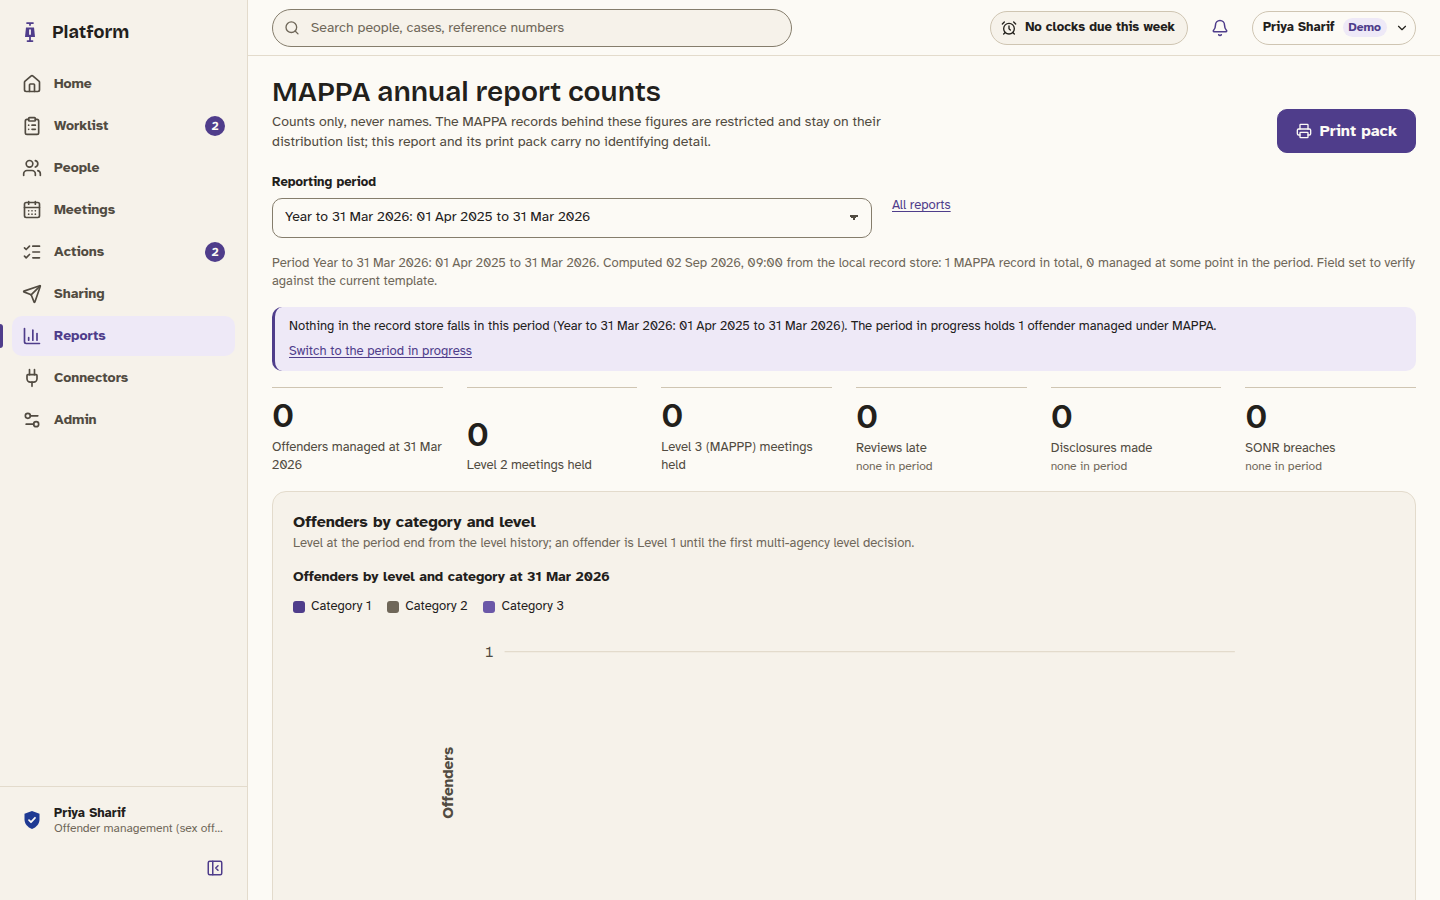
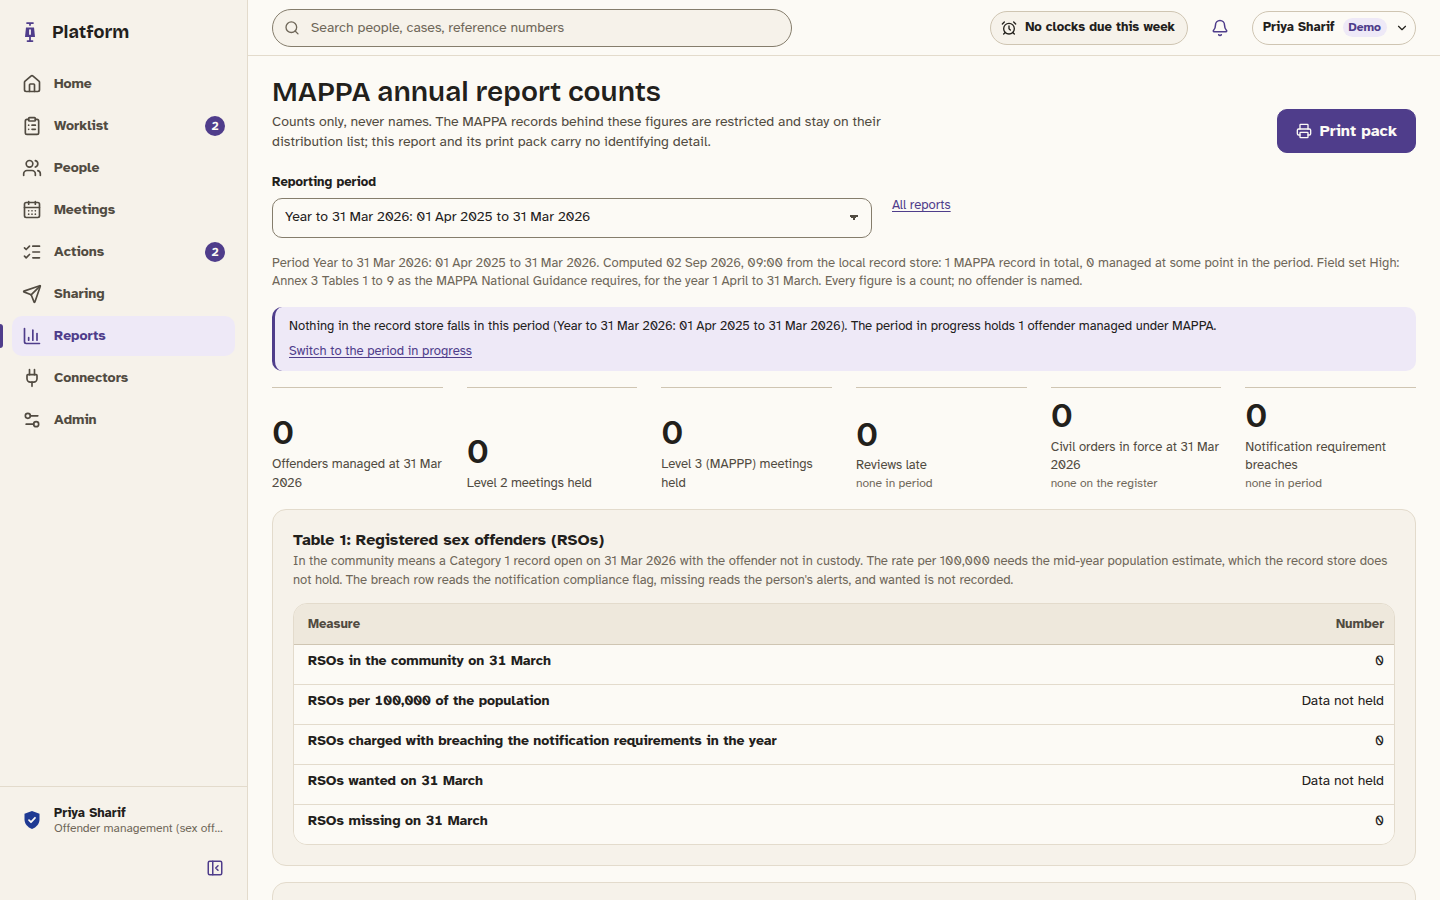
chore: regenerate the data model, screenshots and index after round 3
DATA-MODEL picks up the civil order register, the named case-party form
and the deferrable clock fields. The Playwright suite recaptured the
screens the round changed and added the Annex 3 report capture; the
handover index now lists 138 screenshots. The MAPPA report unit test
expects the High field set line.

Claude-Session: https://claude.ai/code/session_01FKeMmPt1Xxg5XsbCUvgkkp

diff --git a/apps/web/features/reports/reports.test.ts b/apps/web/features/reports/reports.test.ts
@@ -67,7 +67,7 @@ describe('report figures are computed from the seed, never typed in', () => {
     expect(y2027.map['l2']).toBe('1');
     expect(y2027.map['late']).toBe('0');
     expect(y2027.map['orders']).toBe('1');
-    expect(y2027.model.meta.join(' ')).toContain('Annex 3 tables 1 to 9 (MAPPA National Guidance)');
+    expect(y2027.model.meta.join(' ')).toContain('Field set High: Annex 3 Tables 1 to 9');
     expect(y2027.model.meta.join(' ')).not.toContain('Field set to verify');
 
     // Nine sections, one per table, in the annex order, and the only chart sits on Table 3.

diff --git a/docs/DATA-MODEL.md b/docs/DATA-MODEL.md
@@ -187,7 +187,7 @@ Variant 1
 | `riskAssessmentIds` | array of string | yes |
 | `evidenceRefs` | array of object { kind, ref, label } | no |
 | `flags` | object | yes |
-| `parties` | array of object { personId, userId, party, label, since, source, reason } | yes |
+| `parties` | array of object { personId, userId, name, party, label, since, source, reason } | yes |
 | `type` | literal "asp" | yes |
 | `detail` | object { concern, threePointTest, screening, inquiry, investigation, ordersConsidered, planId, closure, lsi } | yes |
 
@@ -216,7 +216,7 @@ Variant 2
 | `riskAssessmentIds` | array of string | yes |
 | `evidenceRefs` | array of object { kind, ref, label } | no |
 | `flags` | object | yes |
-| `parties` | array of object { personId, userId, party, label, since, source, reason } | yes |
+| `parties` | array of object { personId, userId, name, party, label, since, source, reason } | yes |
 | `type` | literal "cp" | yes |
 | `detail` | object { concern, proceduresInitiatedAt, ird, investigation, cppm, register, coreGroup, childsPlanId, preBirth } | yes |
 
@@ -245,7 +245,7 @@ Variant 3
 | `riskAssessmentIds` | array of string | yes |
 | `evidenceRefs` | array of object { kind, ref, label } | no |
 | `flags` | object | yes |
-| `parties` | array of object { personId, userId, party, label, since, source, reason } | yes |
+| `parties` | array of object { personId, userId, name, party, label, since, source, reason } | yes |
 | `type` | literal "marac" | yes |
 | `detail` | object { referral, researchRequests, meetingId, actionPlanId, idaa, idaaFeedback, flags, links, safeLivesReturn, transfer } | yes |
 
@@ -274,9 +274,9 @@ Variant 4
 | `riskAssessmentIds` | array of string | yes |
 | `evidenceRefs` | array of object { kind, ref, label } | no |
 | `flags` | object | yes |
-| `parties` | array of object { personId, userId, party, label, since, source, reason } | yes |
+| `parties` | array of object { personId, userId, name, party, label, since, source, reason } | yes |
 | `type` | literal "mappa" | yes |
-| `detail` | object { category, level, levelHistory, leadResponsibleAuthority, visorReference, victimPersonIds, notification, referral, sonr, custody, licenceConditions, riskAssessmentIds, rmp, era, disclosures, preMeetingReturns, reviewSchedule, exit, significantCaseReviewTrigger } | yes |
+| `detail` | object { category, level, levelHistory, leadResponsibleAuthority, visorReference, victimPersonIds, notification, referral, sonr, custody, licenceConditions, orders, riskAssessmentIds, rmp, era, disclosures, preMeetingReturns, reviewSchedule, exit, significantCaseReviewTrigger } | yes |
 
 Variant 5
 
@@ -303,7 +303,7 @@ Variant 5
 | `riskAssessmentIds` | array of string | yes |
 | `evidenceRefs` | array of object { kind, ref, label } | no |
 | `flags` | object | yes |
-| `parties` | array of object { personId, userId, party, label, since, source, reason } | yes |
+| `parties` | array of object { personId, userId, name, party, label, since, source, reason } | yes |
 | `type` | literal "awi" | yes |
 | `detail` | object { concern, capacityAssessments, willAndPreferences, opgResult, routeDecision, application, orders, supervisionVisits, investigations } | yes |
 
@@ -365,6 +365,7 @@ Variant 5
 | `sonr` | object { subject, compliant, lastNotificationAt, nextDueAt, endsAt } | yes |
 | `custody` | object { releasedAt, licenceExpiresAt, establishment } | yes |
 | `licenceConditions` | array of object { id, text, status } | yes |
+| `orders` | array of object { id, kind, madeAt, expiresAt, court, status } | yes |
 | `riskAssessmentIds` | array of string | yes |
 | `rmp` | object { planId, triggers, contingencies, controls, victimSafety, accommodation, employment, associates, reviewedAt } | no |
 | `era` | object { status, proposedAddressId, assessorName, startedAt, concerns, conclusion } | no |
@@ -677,6 +678,8 @@ Variant 5
 | `confidence` | "high" \| "verify" \| "local" \| "advisory" | yes |
 | `localNote` | string | no |
 | `todoVerify` | boolean | no |
+| `deferrable` | boolean | no |
+| `deferralNote` | string | no |
 
 ### NeedToKnowRow
 
@@ -712,7 +715,7 @@ Variant 5
 |---|---|---|
 | `area` | object { councilName, hscpName, healthBoardName, policeDivision, ppuBase, maracArea, sheriffCourt } | yes |
 | `labels` | object | yes |
-| `clockRules` | array of object { id, process, label, trigger, unit, amount, kind, direction, warnDays, source, sourceRef, confidence, localNote, todoVerify } | yes |
+| `clockRules` | array of object { id, process, label, trigger, unit, amount, kind, direction, warnDays, source, sourceRef, confidence, localNote, todoVerify, deferrable, deferralNote } | yes |
 | `needToKnow` | array of object { id, process, stage, audience, detailLevel, fields, channel, trigger, condition, conditionLabel, lawfulBasisHint } | yes |
 | `exclusions` | array of object { id, process, stage, party, label, reason, liftableBy } | yes |
 | `classificationMarkings` | array of object { id, label, handling } | yes |

diff --git a/docs/HANDOVER.md b/docs/HANDOVER.md
@@ -83,7 +83,7 @@ Brief section 2 requires no runtime network. Both shells satisfy it: the web app
 
 ## 5. Screenshot index
 
-135 screenshots under `docs/SCREENSHOTS/<phase>/<screen>-<theme>-<density>.png`, captured by the Playwright suites at 1440 by 900 (full page where the screen scrolls). Light comfortable is the default; dark and compact variants are listed where captured. Phase 6 holds the dark and compact sweep of every screen.
+138 screenshots under `docs/SCREENSHOTS/<phase>/<screen>-<theme>-<density>.png`, captured by the Playwright suites at 1440 by 900 (full page where the screen scrolls). Light comfortable is the default; dark and compact variants are listed where captured. Phase 6 holds the dark and compact sweep of every screen.
 
 ### phase-1
 
@@ -153,6 +153,8 @@ Brief section 2 requires no runtime network. Both shells satisfy it: the web app
 | meeting-before | light comfortable |
 | meeting-chair | dark comfortable, light comfortable |
 | meeting-during | light comfortable |
+| meeting-minutes | light comfortable |
+| meeting-minutes-print | light comfortable |
 | meetings | light comfortable |
 | sharing-inbound | light comfortable |
 | sharing-outbound | light comfortable |
@@ -179,6 +181,7 @@ Brief section 2 requires no runtime network. Both shells satisfy it: the web app
 | report-awi | light comfortable |
 | report-cp | dark comfortable, light comfortable |
 | report-cp-print | light comfortable |
+| report-mappa-annex3 | light comfortable |
 | report-mappa | light comfortable |
 | report-marac | light comfortable, light compact |
 | reports | light comfortable |
